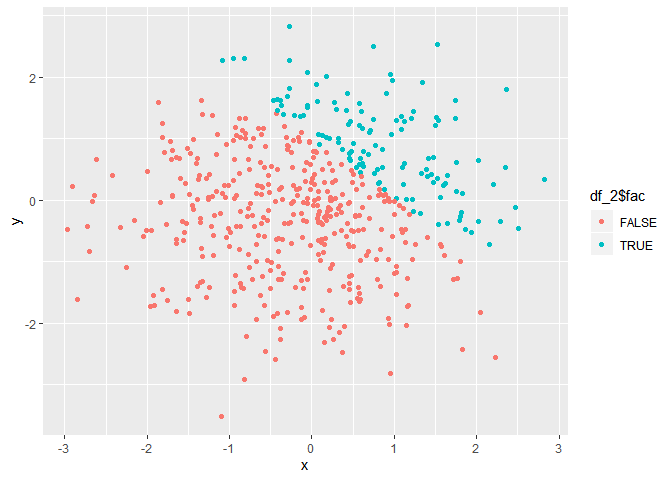
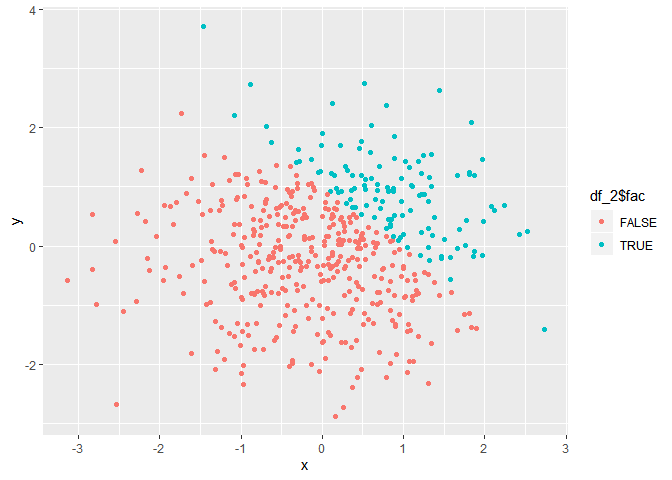
correct mistakes

diff --git a/p8105_hw1_jm4998.md b/p8105_hw1_jm4998.md
@@ -4,11 +4,11 @@ Junhui Mi
 2019-09-14
 
 The purpose of this homework is to work with data and present plots
-using `ggplot`.
+using *ggplot*.
 
 ## Problem 1
 
-First I create a dataframe `df_1` containing variables for problem 1.
+First I create a dataframe *df\_1* containing variables for problem 1.
 
 ``` r
 df_1 = tibble(
@@ -28,13 +28,13 @@ works.
 mean(df_1$norm_samp)
 ```
 
-    ## [1] 0.01282749
+    ## [1] -0.6404489
 
 ``` r
 mean(df_1$norm_samp_pos)
 ```
 
-    ## [1] 0.5
+    ## [1] 0.375
 
 ``` r
 mean(df_1$chara)
@@ -57,7 +57,7 @@ mean(df_1$fact)
 I find that mean function works for numeric and logical variables but
 not for character and factor variables.
 
-I try to apply `as.numeric` function to change logical, character, and
+I try to apply “as.numeric” function to change logical, character, and
 factor variables into numeric variables.
 
 ``` r
@@ -78,8 +78,8 @@ logic_num <- as.numeric(df_1$norm_samp_pos) * df_1$norm_samp
 logic_num
 ```
 
-    ## [1] 1.1177899 1.1834192 1.2494932 0.1424268 0.0000000 0.0000000 0.0000000
-    ## [8] 0.0000000
+    ## [1] 0.08637983 0.11026925 0.00000000 0.97829578 0.00000000 0.00000000
+    ## [7] 0.00000000 0.00000000
 
 ``` r
 logic_fact <- as.factor(df_1$norm_samp_pos) * df_1$norm_samp
@@ -99,15 +99,15 @@ logic_fact_num <- as.numeric(as.factor(df_1$norm_samp_pos)) * df_1$norm_samp
 logic_fact_num
 ```
 
-    ## [1]  2.2355798  2.3668384  2.4989865  0.2848537 -0.4289152 -0.5767155
-    ## [7] -1.3777509 -1.2071278
+    ## [1]  0.1727597  0.2205385 -0.3363171  1.9565916 -1.0900193 -1.2789770
+    ## [7] -1.4435624 -2.1496603
 
 It shows that numeric variables can do calculation while factor
 variables can not.
 
 ## Problem 2
 
-First I create a dataframe `df_2` containing variables for my plots.
+First I create a dataframe *df\_2* containing variables for my plots.
 
 ``` r
 df_2 = tibble(
@@ -119,27 +119,56 @@ df_2 = tibble(
 )
 ```
 
-The size of the dataset is `nrow(df_2)` rows and `ncol(df_2)` columns.
-The mean of x is `mean(df_2$x)`, the median of x is `median(df_2$x)`,
-and the standard deviation of x is `sd(df_2$x)`. The proportion of cases
-for which x + y \> 1 is `sum(df_2$num)/500`
+The size of the dataset is 500 rows and 5 columns.
 
-Then I show three scatterplots of `y` vs `x`.
+The mean of x is 0.0134729, the median of x is 0.0159819, and the
+standard deviation of x is 1.0489248.
+
+The proportion of cases for which x + y \> 1 is 0.282
+
+Then I show three scatterplots of *y* vs *x*.
+
+*Plot 1*
 
 ``` r
 ggplot(df_2, aes(x = x, y = y, color = df_2$logi)) + geom_point()
 ```
 
-![](p8105_hw1_jm4998_files/figure-gfm/yx_scatter-1.png)<!-- -->
+![](p8105_hw1_jm4998_files/figure-gfm/yx_scatter_1-1.png)<!-- -->
+
+``` r
+ggsave("my first scatterplot for HW1.png")
+```
+
+    ## Saving 7 x 5 in image
+
+*Plot 2*
 
 ``` r
 ggplot(df_2, aes(x = x, y = y, color = df_2$num)) + geom_point()
 ```
 
-![](p8105_hw1_jm4998_files/figure-gfm/yx_scatter-2.png)<!-- -->
+![](p8105_hw1_jm4998_files/figure-gfm/yx_scatter_2-1.png)<!-- -->
+
+*Plot 3*
 
 ``` r
 ggplot(df_2, aes(x = x, y = y, color = df_2$fac)) + geom_point()
 ```
 
-![](p8105_hw1_jm4998_files/figure-gfm/yx_scatter-3.png)<!-- -->
+![](p8105_hw1_jm4998_files/figure-gfm/yx_scatter_3-1.png)<!-- -->
+
+The results above shows that:
+
+1)  For all three plots, arrays are divided into two groups: one group
+    is “x + y \> 1” and the other is “x + y \<= 1”
+
+2)  ggplot has its color scale for logical variables “TRUE” and “FALSE”,
+    which is shown as pink dots and green dots in Plot 1.
+
+3)  ggplot has a gradient color between 0 and 1, from dark blue to light
+    blue, as is shown in Plot 2.
+
+4)  If factor variables only contain levels of “TRUE” and “FALSE”, then
+    ggplot color scale is same as logical variables, as is shown in Plot
+    3.
